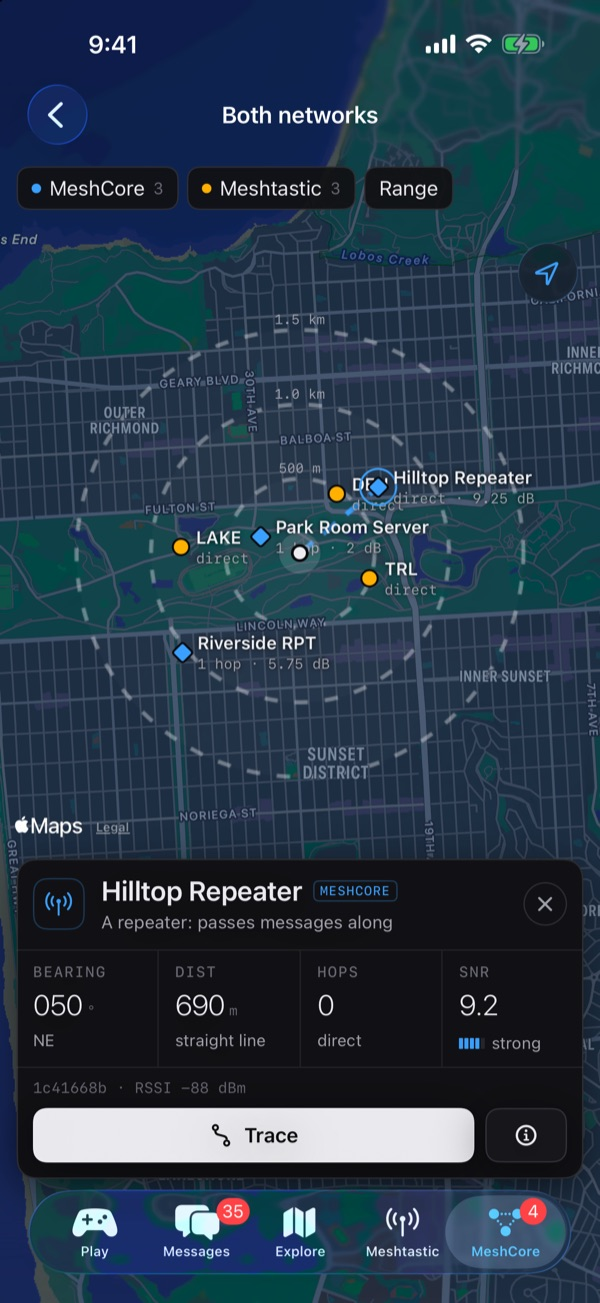
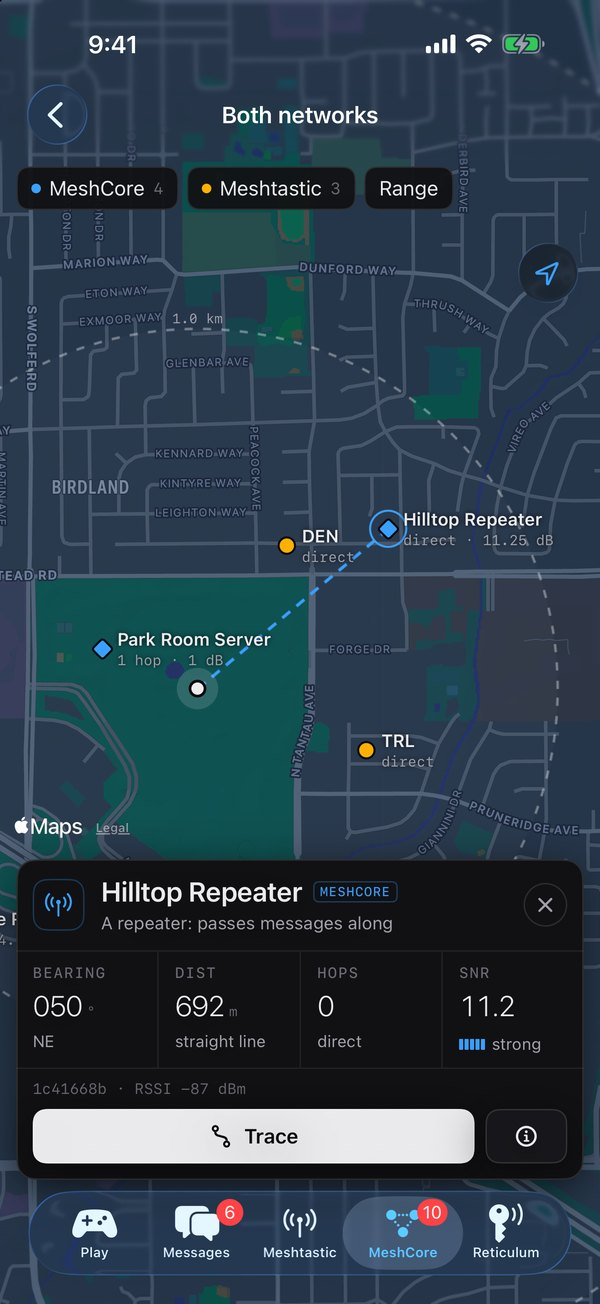
Wildcat guide in the 2.0 look: 16 retaken guide shots, map, My Mesh and repeater; two old shots cropped above the old tab bar; five tabs with Reticulum, Explore on Play and the menu

diff --git a/wildcat/guide.html b/wildcat/guide.html
@@ -48,12 +48,16 @@
 <h2>Where everything lives</h2>
 <dl class="terms">
 <div><dt>Play</dt><dd>Every game: Fox Hunt, Geo Gifts, Daily Fox, your My Mesh card, and Practice when no radio is connected.</dd></div>
-<div><dt>Messages</dt><dd>Channel and direct chats on both networks, grouped by the radio they travel through, plus People.</dd></div>
-<div><dt>Explore</dt><dd>Your collection: Nodedex, achievements, Territory, coverage walks and today's Daily Fox.</dd></div>
-<div><dt>Meshtastic</dt><dd>Connect your Meshtastic node: its status, nodes, map, channels and settings, plus the More menu (Bridge, Den, Guide, Safety, About, Radio log).</dd></div>
+<div><dt>Messages</dt><dd>Channel and direct chats on both networks, grouped by the radio they travel through, plus People. Reticulum chats are listed here too.</dd></div>
+<div><dt>Meshtastic</dt><dd>Connect your Meshtastic node: its status, nodes, map, channels or chats, settings, and Manage.</dd></div>
 <div><dt>MeshCore</dt><dd>Connect a MeshCore node: chats, contacts, maps, channels, settings, repeater admin and the bridge.</dd></div>
+<div><dt>Reticulum</dt><dd>A third network, in beta: encrypted messages through an RNode or an internet link you choose. See <a href="#rnode">RNode and Reticulum</a>.</dd></div>
 </dl>
-<p>The <strong>radio pill</strong> at the top left shows both radios at a glance: an LED in each network's colour (grey when that radio isn't connected) that blinks when a packet is heard, and each node's name. Tap it to see both radios and jump to either tab.</p>
+<dl class="terms">
+<div><dt>Explore</dt><dd>Not a tab since 2.0: open it from <strong>Play</strong> or the <strong>≡ Menu</strong>. Nodedex, achievements, Territory, coverage walks and today's Daily Fox.</dd></div>
+<div><dt>≡ Menu</dt><dd>Top right on every tab, for the whole app: Bridge, Map (both networks), Radio log, Firmware, Guide, Safety, About, Den (base station) and Keep raw packets.</dd></div>
+</dl>
+<p>The <strong>radio pill</strong> at the top left shows your radios at a glance (Meshtastic, MeshCore and an RNode): an LED in each network's colour (grey when that radio isn't connected) that blinks when a packet is heard, and each node's name. Tap it to see your radios and jump to their tabs.</p>
 </div></section>
 
 <section class="chapter" id="connect"><div class="body">
@@ -130,9 +134,9 @@
 </div></section>
 
 <section class="chapter" id="explore"><div class="body">
-<p class="label"><span class="no">06</span>Explore tab</p>
+<p class="label"><span class="no">06</span>Explore</p>
 <h2>Your collection and your ground</h2>
-<p>The top of Explore counts your walked tiles, Nodedex, foxes found and your Daily Fox streak.</p>
+<p>Open Explore from <strong>Play</strong> or the <strong>≡ Menu</strong>. The top counts your walked tiles, Nodedex, foxes found and your Daily Fox streak.</p>
 <dl class="terms">
 <div><dt>Nodedex</dt><dd>Every node your radio hears directly. Rarity is the longest distance you heard it from directly: 1 km uncommon, 5 km rare, 15 km legendary (it needs the node's position).</dd></div>
 <div><dt>Achievements</dt><dd>Firsts and milestones.</dd></div>
@@ -147,7 +151,7 @@
 <h3>Coverage walks and drives</h3>
 <ol class="steps">
 <li>Connect your Meshtastic node and your Den.</li>
-<li><strong>Explore → Coverage walk / drive</strong>, and pick a private channel the Den also has.</li>
+<li><strong>Play → Explore → Coverage walk / drive</strong>, and pick a private channel the Den also has.</li>
 <li>Walk or drive. Every 30 seconds (or 60 s or 2 min, your choice) your node sends a beacon <strong>with no location in it</strong>; your phone pins it to where you stood.</li>
 <li>Dots: the Den heard you (green strong, amber ok, red weak). Triangles: you heard the Den. Black rings: <strong>dead spots</strong>.</li>
 </ol>
@@ -202,7 +206,7 @@
 </dl>
 <h3>Node settings</h3>
 <p><strong>Node settings</strong> covers the node's name, radio (region, preset, frequency slot), role, position and channels, plus two one-tap setups: <strong>Make this node the fox</strong> (see <a href="#makefox">Make a fox</a>) and <strong>Make this node my Den</strong> (see <a href="#den">Den</a>). Region and role changes restart the node.</p>
-<div class="shots-row"><figure><img src="assets/guide/node-settings.jpg" alt="Node settings: one-tap fox and Den setups, name and radio region" width="540" height="1174" loading="lazy"><figcaption>Node settings</figcaption></figure></div>
+<div class="shots-row"><figure><img src="assets/guide/node-settings.jpg" alt="Node settings: one-tap fox and Den setups, name and radio region" width="540" height="1064" loading="lazy"><figcaption>Node settings</figcaption></figure></div>
 </div></section>
 
 <section class="chapter" id="meshcore"><div class="body">
@@ -315,7 +319,7 @@
 <div><dt>Location hidden</dt><dd>GPS off and no fixed position: hunters can't just read it off the map.</dd></div>
 <div><dt>Heartbeat</dt><dd>Battery and uptime every minute, no location. That's what your radio hears.</dd></div>
 </dl>
-<div class="shots-row"><figure><img src="assets/guide/make-fox.jpg" alt="Make this node the fox: the list of what changes and the hunt channel" width="540" height="1174" loading="lazy"><figcaption>Make this node the fox</figcaption></figure></div>
+<div class="shots-row"><figure><img src="assets/guide/make-fox.jpg" alt="Make this node the fox: the list of what changes and the hunt channel" width="540" height="1064" loading="lazy"><figcaption>Make this node the fox</figcaption></figure></div>
 <p class="tip">No hunt channel yet? The fox screen can make a new one; share its QR code with hunters.</p>
 <p class="warn">Put the fox somewhere public and safe, never on private property.</p>
 <h3 id="dailyfox">Daily Fox</h3>
@@ -326,7 +330,7 @@
 <div><dt>Give up</dt><dd>Reveals where it was. A new fox appears tomorrow.</dd></div>
 <div><dt>Streak</dt><dd>Days in a row with a found fox.</dd></div>
 </dl>
-<div class="shots-row"><figure><img src="assets/guide/dailyfox.jpg" alt="Daily Fox: listening for the fox, a distance hint, and the Ping, Hint and Give up keys" width="540" height="1174" loading="lazy"><figcaption>Daily Fox with a hint</figcaption></figure></div>
+<div class="shots-row"><figure><img src="assets/guide/dailyfox.jpg" alt="Daily Fox: today's fox, a note that it needs a Meshtastic node, the Listening meter, and the Ping, Hint and Give up keys" width="540" height="1174" loading="lazy"><figcaption>Daily Fox with a hint</figcaption></figure></div>
 <p class="warn">Daily foxes are other people's nodes, often on private property. Finding it within 100 m means you can do it from the street.</p>
 <h3 id="mcfox">MeshCore fox hunt</h3>
 <p><strong>MeshCore → Fox hunt a repeater</strong>: pick a repeater and find it by its signal alone. Every packet it transmits (its adverts, the traffic it relays and answers to your pings) moves the scope. If the repeater shares its position, the distance shows once you're within 150 m.</p>

diff --git a/wildcat/index.html b/wildcat/index.html
@@ -144,7 +144,7 @@
 </div>
 <figure class="pair">
 <img class="phone" src="assets/03-messages.jpg" alt="Messages: MeshCore chats in blue and Meshtastic chats in amber, each with hops and signal strength, with filters for each network and Reticulum" width="600" height="1304" loading="lazy">
-<img class="phone" src="assets/04-map.jpg" alt="A map with MeshCore and Meshtastic nodes together; a selected repeater shows bearing 050, distance 690 m, 0 hops and SNR 9.2" width="600" height="1304" loading="lazy">
+<img class="phone" src="assets/04-map.jpg" alt="A map with MeshCore and Meshtastic nodes together; a selected repeater shows bearing 050, distance 692 m, 0 hops and SNR 11.2" width="600" height="1304" loading="lazy">
 </figure>
 </div>
 </section>
@@ -241,7 +241,7 @@ document.addEventListener('visibilitychange',()=>{if(!document.hidden&&!userPaus
 </ul>
 </div>
 <figure>
-<img class="phone" src="assets/05-repeater.jpg" alt="A MeshCore repeater's page: role explainer, link readouts of SNR 9.75 dB, RSSI −88 dBm, 0 hops, and raw fields such as public key, type, radio settings and path" width="600" height="1304" loading="lazy">
+<img class="phone" src="assets/05-repeater.jpg" alt="A MeshCore repeater's page: role explainer, link readouts of SNR 11.5 dB, RSSI −86 dBm, 0 hops, and raw fields such as public key, type, radio settings and path" width="600" height="1304" loading="lazy">
 </figure>
 </div>
 </section>
@@ -266,7 +266,7 @@ document.addEventListener('visibilitychange',()=>{if(!document.hidden&&!userPaus
 <p class="lede">Tap <strong>Play → Practice</strong>. Wildcat starts a pretend Meshtastic radio and a pretend MeshCore radio that live on your phone, with made-up nodes, chats, repeaters and a fox to hunt. Nothing is transmitted.</p>
 <ul class="ticks ok">
 <li>Hunt the practice fox straight away. Its code is <code>4821</code>.</li>
-<li>Explore Messages, both radio tabs, the maps, My Mesh, Geo Gifts and Explore.</li>
+<li>Try Messages, both radio tabs, the maps, My Mesh, Geo Gifts and Explore.</li>
 <li>End practice from the Meshtastic tab whenever you like.</li>
 </ul>
 </div>
